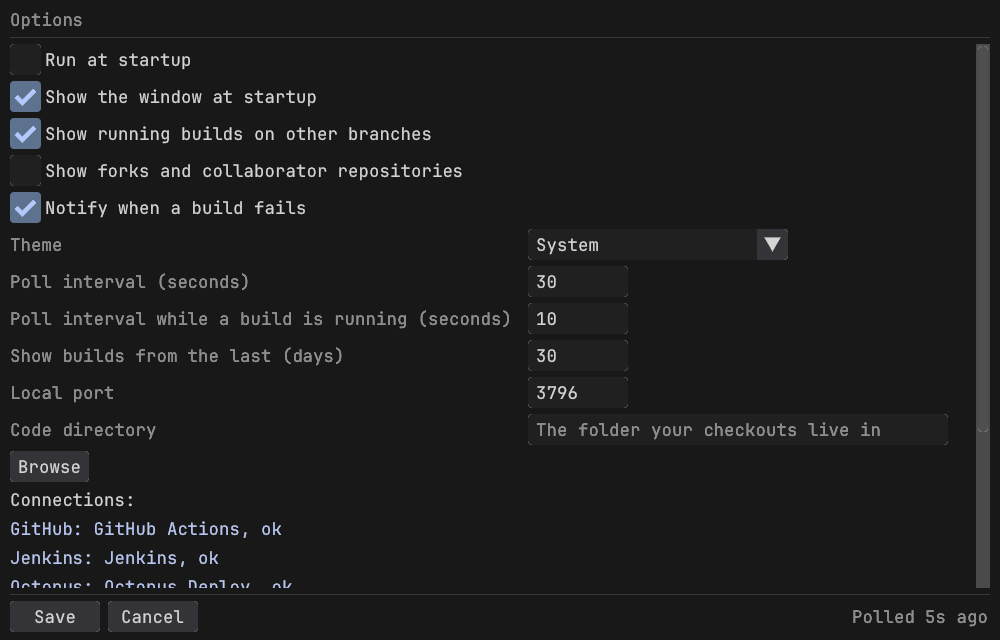
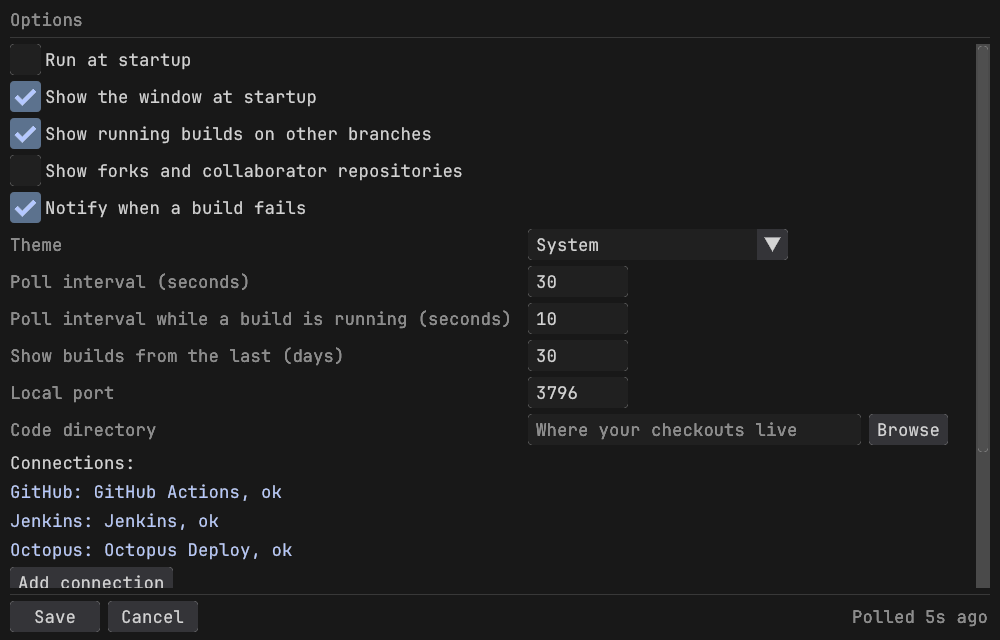
Lay a directory's Browse button out beside its box on macOS
The AppKit head drew the field as a bare label: the dim label appeared at the
left margin and nothing at all where the box and the button should have been.
Linux, from the same payload, drew both, so the kind reaches the heads intact and
the fault is on this side.

The box and the button were a plain NSView holding both, which is the one
structural thing a directory did that no working field kind does: every other
control here is a direct subview of the form. They are now siblings, the box made
by make like any other text field and the button laid out beside it in rebuild,
so a directory is a text field plus one more button rather than a shape of its
own. update loses its special case with the nesting.

The cause of the blank is not proven, only removed, because there is no macOS
here to put a breakpoint in. The Linux baseline is accepted; the macOS one waits
for a render that shows the field drawn.

diff --git a/native/swift/Sources/Bm/FormView.swift b/native/swift/Sources/Bm/FormView.swift
@@ -11,6 +11,7 @@ final class FormView: NSView {
     /// end where every other box does.
     private let boxWidth: CGFloat = 420
     private let browseWidth: CGFloat = 82
+    private let browseGap: CGFloat = 8
     private var controls: [NSView] = []
     private var editing: String?
 
@@ -63,7 +64,28 @@ final class FormView: NSView {
                 label.frame = NSRect(x: 12, y: y + 4, width: 240, height: 20)
                 label.lineBreakMode = .byTruncatingTail
                 addSubview(label)
-                control.frame = NSRect(x: 260, y: y, width: field.kind == Int32(BM_FIELD_NUMBER.rawValue) ? 100 : boxWidth, height: 24)
+                // A directory gives up the width of its button, so the box and the button together
+                // end where every other box does.
+                let isDirectory = field.kind == Int32(BM_FIELD_DIRECTORY.rawValue)
+                let width: CGFloat
+                if field.kind == Int32(BM_FIELD_NUMBER.rawValue) {
+                    width = 100
+                } else if isDirectory {
+                    width = boxWidth - browseWidth - browseGap
+                } else {
+                    width = boxWidth
+                }
+
+                control.frame = NSRect(x: 260, y: y, width: width, height: 24)
+                if isDirectory {
+                    let browse = NSButton(title: "Browse", target: self, action: #selector(clicked(_:)))
+                    // The field's own index: a directory reports an edit from its box and a click
+                    // from its button, and the applier tells those apart without a second id.
+                    browse.tag = index
+                    browse.bezelStyle = .rounded
+                    browse.frame = NSRect(x: 260 + boxWidth - browseWidth, y: y, width: browseWidth, height: 24)
+                    addSubview(browse)
+                }
             } else {
                 control.frame = NSRect(x: 12, y: y, width: 620, height: 24)
             }
@@ -95,21 +117,14 @@ final class FormView: NSView {
             text.placeholderString = field.hint
             return text
         case BM_FIELD_DIRECTORY.rawValue:
-            // The box and its button in one view, so the button sits beside the path rather than
-            // on the line below it. Both carry the field's index: an edit comes from the box and a
-            // click from the button, which is the whole of what a directory field reports.
-            let row = NSView(frame: NSRect(x: 0, y: 0, width: boxWidth, height: 24))
-            let text = NSTextField(frame: NSRect(x: 0, y: 0, width: boxWidth - browseWidth - 8, height: 24))
+            // Only the box. Its Browse button is laid out beside it in rebuild, as a sibling
+            // rather than a child: every control here is a direct subview of the form, and a
+            // directory has no business being the one that nests.
+            let text = NSTextField()
             text.tag = index
             text.delegate = self
             text.placeholderString = field.hint
-            let browse = NSButton(title: "Browse", target: self, action: #selector(clicked(_:)))
-            browse.tag = index
-            browse.bezelStyle = .rounded
-            browse.frame = NSRect(x: boxWidth - browseWidth, y: 0, width: browseWidth, height: 24)
-            row.addSubview(text)
-            row.addSubview(browse)
-            return row
+            return text
         case BM_FIELD_SELECT.rawValue:
             let popup = NSPopUpButton(frame: .zero, pullsDown: false)
             popup.tag = index
@@ -158,14 +173,8 @@ final class FormView: NSView {
         switch UInt32(field.kind) {
         case BM_FIELD_CHECKBOX.rawValue:
             (control as? NSButton)?.state = field.value == "true" ? .on : .off
-        case BM_FIELD_TEXT.rawValue, BM_FIELD_NUMBER.rawValue, BM_FIELD_PASSWORD.rawValue:
+        case BM_FIELD_TEXT.rawValue, BM_FIELD_NUMBER.rawValue, BM_FIELD_PASSWORD.rawValue, BM_FIELD_DIRECTORY.rawValue:
             if let text = control as? NSTextField, editing != field.id, text.stringValue != field.value {
-                text.stringValue = field.value
-            }
-        case BM_FIELD_DIRECTORY.rawValue:
-            // The box is inside the row, so it is reached through the container rather than cast
-            // from it.
-            if let text = control.subviews.first as? NSTextField, editing != field.id, text.stringValue != field.value {
                 text.stringValue = field.value
             }
         case BM_FIELD_SELECT.rawValue:
